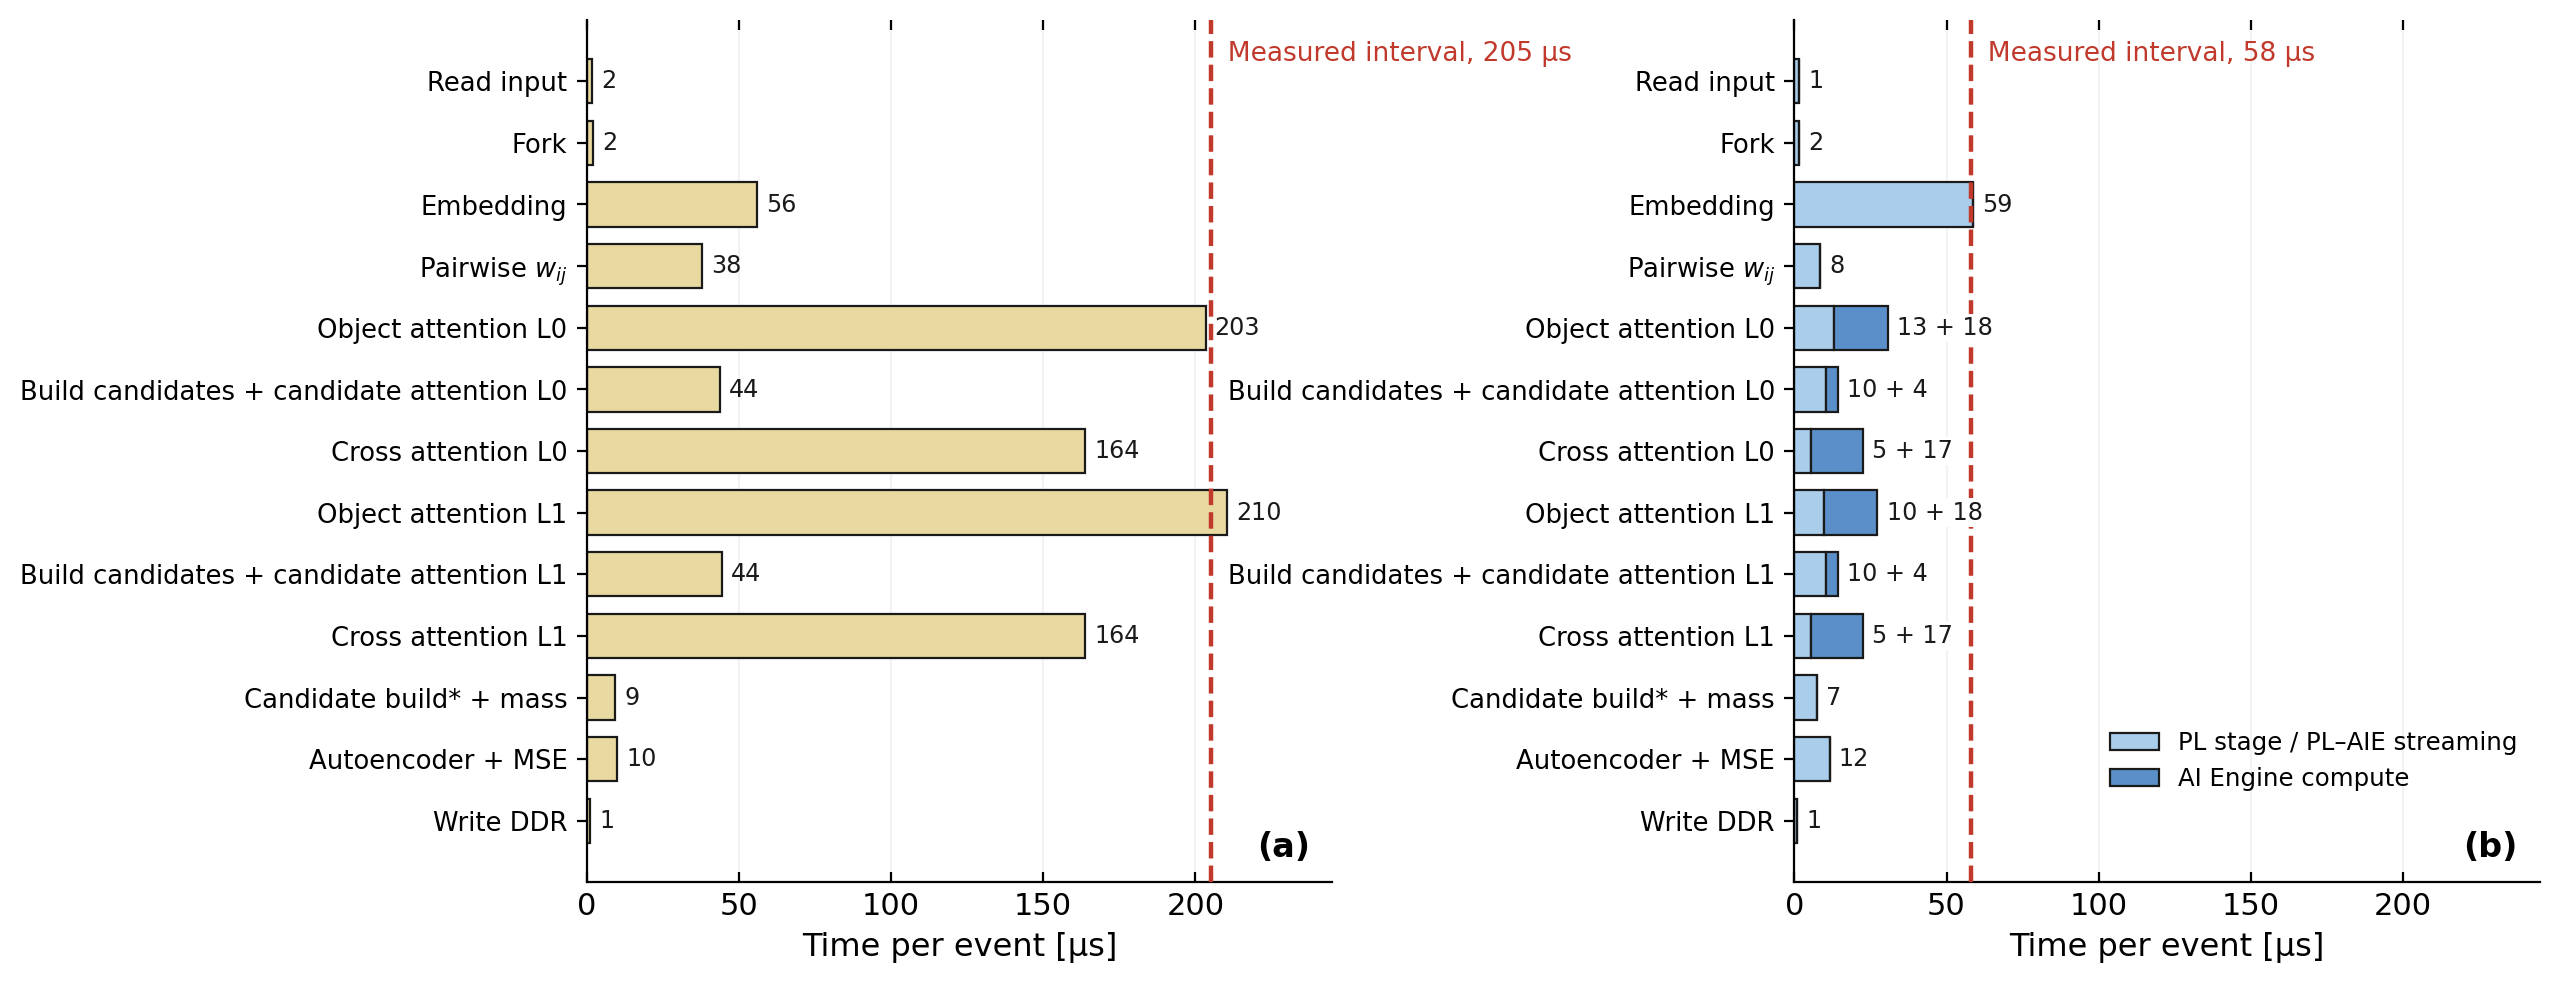
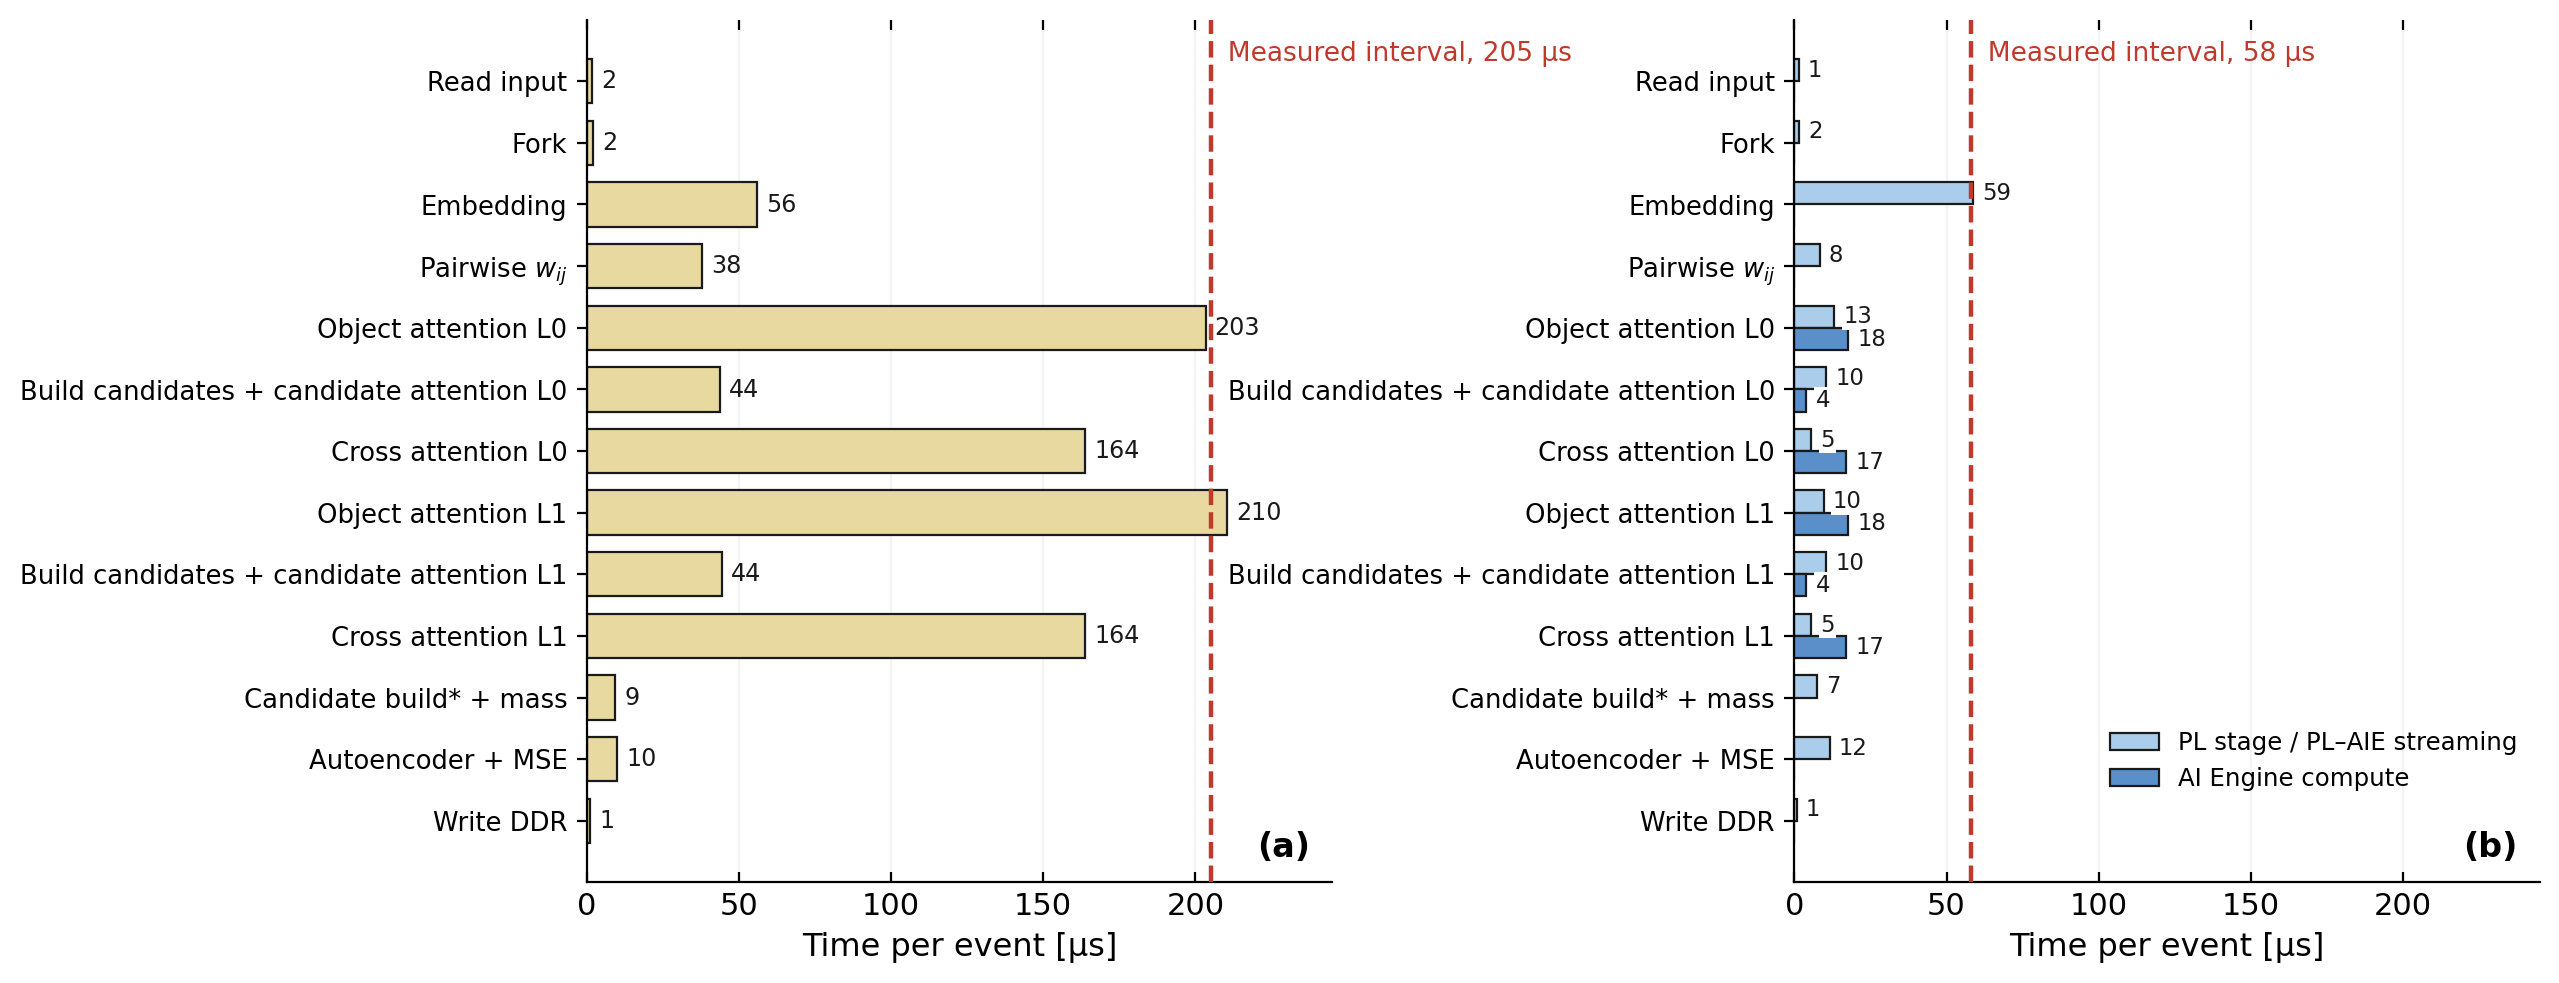
figs: draw the fabric and array parts of a stage side by side, not stacked
They overlap. Before the kernel rewrite the AI Engine object block took 54.6
us and its fabric part 13 us, yet the interval stayed at 57.9 us, matching the
embedding stage on its own; serialized they could not have given less than 68
us. So the rate follows the longer of the two parts, and a stacked bar
overstates the stage. The panel now reads directly: embedding is the only bar
that reaches the measured interval.

diff --git a/scripts/make_latency_and_stage_charts.py b/scripts/make_latency_and_stage_charts.py
@@ -88,15 +88,26 @@ pl_us = np.array([r[1] for r in ROWS])
 axb.barh(y, pl_us, color=PLC, edgecolor=INK, linewidth=0.8, height=0.72, label="PL stage")
 for yy, v in zip(y, pl_us):
     axb.text(v + 3, yy, f"{v:.0f}", va="center", fontsize=8.6, color=INK)
-# (c) hybrid, stacked
+# (c) hybrid. The fabric part and the AI Engine part of an attention stage
+# OVERLAP -- they are separate pipeline stages, so the rate follows the longer
+# of the two, not their sum. The measurement says so: before the kernel rewrite
+# the AI Engine object block took 54.6 us and the fabric part 13 us, yet the
+# interval stayed at 57.9 us, matching the embedding stage alone. Had they been
+# serialized the interval could not have been below 68 us. Hence side-by-side
+# bars, not a stack.
 hp = np.array([r[2] for r in ROWS]); ha = np.array([r[3] for r in ROWS])
-axc.barh(y, hp, color=AIEC, edgecolor=INK, linewidth=0.8, height=0.72, label="PL stage / PL–AIE streaming")
-axc.barh(y, ha, left=hp, color=AIE_DARK, edgecolor=INK, linewidth=0.8, height=0.72, label="AI Engine compute")
+hh = 0.36
+axc.barh(y + hh/2, hp, color=AIEC, edgecolor=INK, linewidth=0.8, height=hh,
+         label="PL stage / PL–AIE streaming")
+axc.barh(y - hh/2, ha, color=AIE_DARK, edgecolor=INK, linewidth=0.8, height=hh,
+         label="AI Engine compute")
 for yy, p, a in zip(y, hp, ha):
     # white background so the measured-interval line does not cross the digits
-    axc.text(p + a + 3, yy, f"{p+a:.0f}" if a == 0 else f"{p:.0f} + {a:.0f}", va="center",
-             fontsize=8.6, color=INK, zorder=6,
-             bbox=dict(facecolor="white", edgecolor="none", pad=0.8))
+    axc.text(p + 3, yy + hh/2, f"{p:.0f}", va="center", fontsize=8.2, color=INK, zorder=6,
+             bbox=dict(facecolor="white", edgecolor="none", pad=0.6))
+    if a:
+        axc.text(a + 3, yy - hh/2, f"{a:.0f}", va="center", fontsize=8.2, color=INK, zorder=6,
+                 bbox=dict(facecolor="white", edgecolor="none", pad=0.6))
 
 # hybrid panel: the deep-FIFO build's interval (the pipeline with enough buffering
 # for its stages to overlap). With the vector integer layer norm the AI Engine
